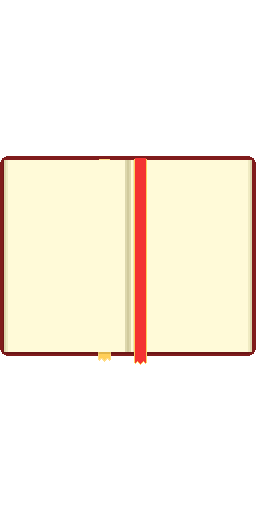
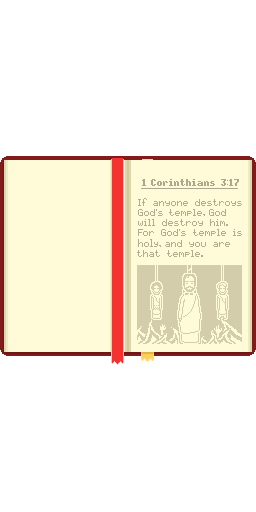
Jokes and Bibels
- Made the decorated big bible pause menu
- Jokes now work
- Tweaks done

Changed region(s): [[0.375, 0.2812, 0.9688, 0.7188], [0.9062, 0.4375, 0.9375, 0.4688]]

diff --git a/Assets/Scripts/Bosses/Nun Boss/NunBossScript.cs b/Assets/Scripts/Bosses/Nun Boss/NunBossScript.cs
@@ -55,12 +55,14 @@ public class NunBossScript : MonoBehaviour {
     IEnumerator Fire()
     {
 
-        yield return new WaitForSeconds(FireDelay);
+        
         foreach (var trigger in GetComponentsInChildren<AimScript>()) {
             trigger.Attack();
         }
-        FireAttackRepeat -= 1;
 
+        FireAttackRepeat -= 1;
+        yield return new WaitForSeconds(FireDelay);
+        
         if(FireAttackRepeat > 0)
         {
             StartCoroutine(Fire());
@@ -68,7 +70,7 @@ public class NunBossScript : MonoBehaviour {
         else
         {
             FireAttackRepeat = 3;
-            NextAttackDelay = 3;
+            NextAttackDelay = 1;
             StartCoroutine(AttackRandomiser(NextAttackDelay));
         }
     }

diff --git a/Assets/Scripts/ButtonScript.cs b/Assets/Scripts/ButtonScript.cs
@@ -5,6 +5,7 @@ using System.Collections;
 public class ButtonScript : MonoBehaviour {
 
     public Animator anim;
+    public GameObject buttons;
 
     public void Restart()
     {
@@ -19,6 +20,7 @@ public class ButtonScript : MonoBehaviour {
         SceneManager.LoadScene("Menu");
         LevelTimer.playerDead = false;
         AimScript.playerDead = false;
+        LevelTimer.PauseMenu = false;
     }
 
     public void Play()
@@ -36,5 +38,11 @@ public class ButtonScript : MonoBehaviour {
     public void Options()
     {
         print("Git chunging");
+    }
+
+    public void Resume()
+    {
+        LevelTimer.PauseMenu = false;
+        buttons.SetActive(false);
     }
 }

diff --git a/Assets/Scripts/PlayerDamageScript.cs b/Assets/Scripts/PlayerDamageScript.cs
@@ -4,6 +4,7 @@ using System.Collections;
 public class PlayerDamageScript : MonoBehaviour {
 
     public PlayerScript player;
+    public TypewriterScript joke;
     public SpriteRenderer playerSprite;
     public Animator anim;
     public float flashDelay = 3f;
@@ -39,6 +40,7 @@ public class PlayerDamageScript : MonoBehaviour {
                 death.AtDeath();
 
             player.ModifyHealth(1);
+            joke.Writeout();
         }
         else if (other.gameObject.tag == "Boss" && !isInvincible)
         {

diff --git a/Assets/Scripts/TypewriterScript.cs b/Assets/Scripts/TypewriterScript.cs
@@ -7,7 +7,7 @@ public class TypewriterScript : MonoBehaviour {
     public Animator anim;
     public Text uiTarget;
 
-    [TextArea]
+    [Multiline]
 	public string[] text;
 	public float lettersPerSecond = 1f;
 	public float secondsPerLetter = 1f;

diff --git a/Assets/Scripts/InGameButtonsScript.cs b/Assets/Scripts/InGameButtonsScript.cs
@@ -3,7 +3,6 @@ using System.Collections;
 
 public class InGameButtonsScript : MonoBehaviour {
 
-    public float timeSlowDeley = 1f;
     public GameObject buttons;
 
     // Update is called once per frame
